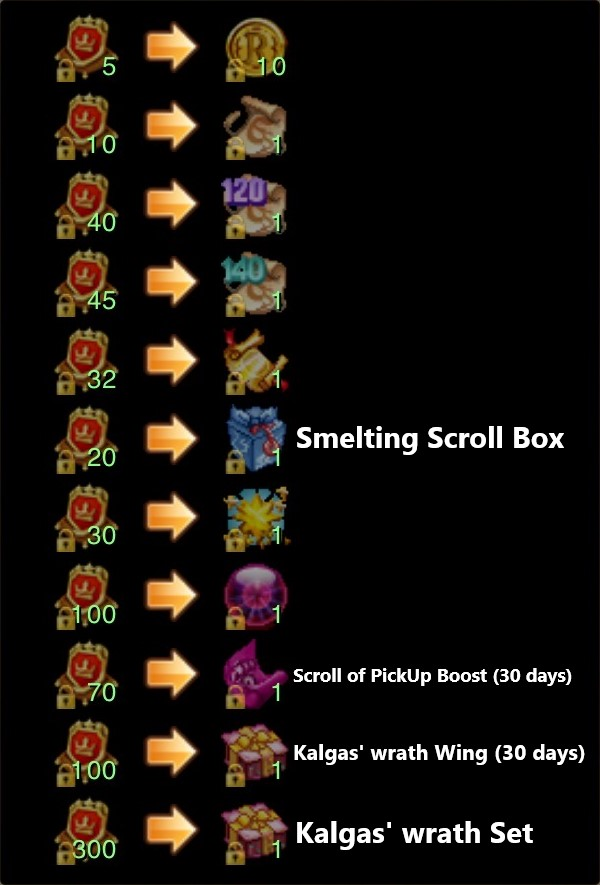
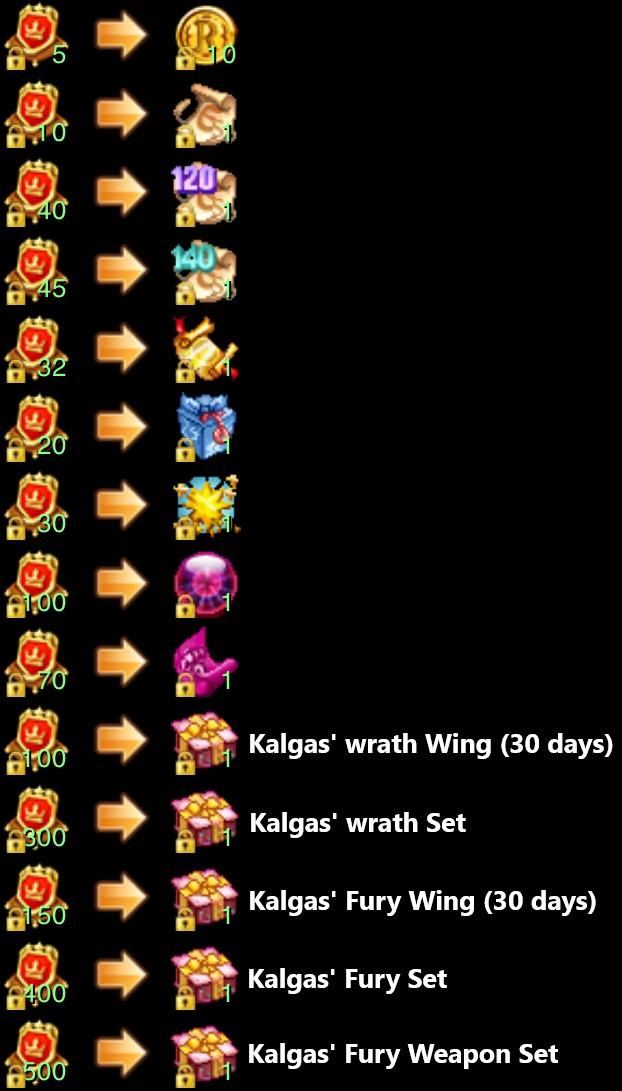
feat: update kalgas assault

diff --git a/README.md b/README.md
@@ -1758,17 +1758,25 @@ Those who have completed the Optional Master Quest during the event period will 
 
 > source:[New Horizon Expansion (Flyff Universe Version 1.3.6)](https://universe.flyff.com/news/patchnotes136 "Game Version 1.3.6 Patch Notes")
 
+> source:[Updates to Battle for Madrigal Expansion (Flyff Universe Version 1.4.1)](https://universe.flyff.com/news/ver141 "Updates to Battle for Madrigal Expansion (Flyff Universe Version 1.4.1)")
+
 <div align="center"><img src="./dungeons/kalgas_assault/wdrealm.png" alt="wdrealm.png"/></div>
 
-<div align="center"><img src="./dungeons/kalgas_assault/kalgas_assault_infomation.jpg" alt="kalgas_assault_infomation.jpg" width="400"/><img src="./dungeons/kalgas_assault/kalgas_assault_infomation_cn.jpg" alt="kalgas_assault_infomation.jpg" width="400"/></div>
-
-<div align="center"><img src="./dungeons/kalgas_assault/kalgas_assault_registration.jpg" alt="kalgas_assault_registration.jpg" width="400"/><img src="./dungeons/kalgas_assault/kalgas_assault_registration_cn.jpg" alt="kalgas_assault_registration.jpg" width="400"/></div>
-
-<div align="center"><img src="./dungeons/kalgas_assault/tradekalgaschips.jpg" alt="tradekalgaschips.jpg" width="300"/></div>
+<div align="center"><img src="./dungeons/kalgas_assault/tradekalgaschips.jpg" alt="tradekalgaschips.jpg" width="400"/></div>
 
 <div align="center"><img src="./dungeons/kalgas_assault/kalgas_wrath_wing.jpg" alt="kalgas_wrath_wing.jpg" width="600"/></div>
 
-> [Kalgas' wrath Wing](https://flyffipedia.com/items/details/18037 "Kalgas' wrath Wing")
+> [Kalgas' wrath Wing](https://flyffipedia.com/items/details/16975 "Kalgas' wrath Wing")
+
+> [Kalgas' wrath Set](https://flyffipedia.com/items/details/19999 "Kalgas' wrath Set")
+
+<div align="center"><img src="./dungeons/kalgas_assault/kalgas_fury.png" alt="kalgas_fury.png" width="400"/></div>
+
+> [Kalgas' Fury Wing (30 days)](https://flyffipedia.com/items/details/20834 "Kalgas' Fury Wing (30 days)")
+
+> [Kalgas' Fury Set](https://flyffipedia.com/items/details/29875 "Kalgas' Fury Set")
+
+> [Kalgas' Fury Weapon Set](https://flyffipedia.com/items/details/24829 "Kalgas' Fury Weapon Set")
 
 </details></td></tr></table>
 
